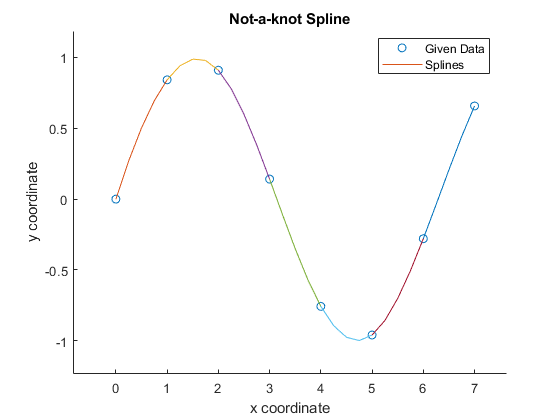
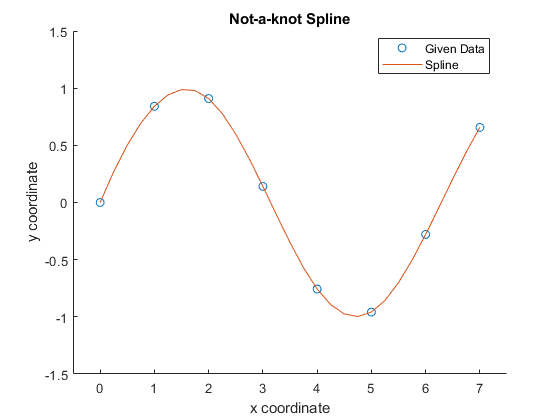
Misc: Update all HW7 questions except for Q1.b and Q1.c

diff --git a/HW7/HW7_Q2.m b/HW7/HW7_Q2.m
@@ -7,7 +7,7 @@ Y = [3 6 19 99 291 444];
 desired_x = 4;
 yint = [];
 
-for i = 2 : 4
+for i = 2 : length(X)
     yint = [yint Newtint(X(1:i), Y(1:i), desired_x)];
 end
 
@@ -21,14 +21,21 @@ x = 0 : 0.25 : X(length(X)) + 1;
 
 % order = points - 1, points >= 2
 % polynomials for order over 3 have the same result
-for i = 2 : 4
+for i = 2 : length(X)
     plot(x, Newtint(X(1:i), Y(1:i), x));
 end
 
-plot(desired_x, yint, '.', 'MarkerSize', 10, 'color', 'r');
+plot(desired_x, yint, 'x', 'MarkerSize', 10, 'color', 'r');
 
 % Config of figure
 title('Newton’s Interpolating Polynomial');
 xlabel('x coordinate')
 ylabel('y coordinate')
-legend('Given Data', 'Order 1', 'Order 2', 'Order 3', 'Desired Data', 'location', 'best');
+legend('Given Data',...
+       'Order 1',...
+       'Order 2',...
+       'Order 3',...
+       'Order 4',...
+       'Order 5',...
+       'Desired Data',...
+       'location', 'best');

diff --git a/HW7/HW7_Q3.m b/HW7/HW7_Q3.m
@@ -7,7 +7,7 @@ Y = [3 6 19 99 291 444];
 desired_x = 4;
 yint = [];
 
-for i = 2 : 4
+for i = 2 : length(X)
     yint = [yint Lagrange(X(1:i), Y(1:i), desired_x)];
 end
 
@@ -21,14 +21,21 @@ x = 0 : 0.25 : X(length(X)) + 1;
 
 % order = points - 1, points >= 2
 % polynomials for order over 3 have the same result
-for i = 2 : 4
+for i = 2 : length(X)
     plot(x, Lagrange(X(1:i), Y(1:i), x));
 end
 
-plot(desired_x, yint, '.', 'MarkerSize', 10, 'color', 'r');
+plot(desired_x, yint, 'x', 'MarkerSize', 10, 'color', 'r');
 
 % Config of figure
 title('Lagrange Interpolating Polynomial');
 xlabel('x coordinate')
 ylabel('y coordinate')
-legend('Given Data', 'Order 1', 'Order 2', 'Order 3', 'Desired Data', 'location', 'best');
+legend('Given Data',...
+       'Order 1',...
+       'Order 2',...
+       'Order 3',...
+       'Order 4',...
+       'Order 5',...
+       'Desired Data',...
+       'location', 'best');

diff --git a/HW7/Natural_cubic_spline.m b/HW7/Natural_cubic_spline.m
@@ -24,16 +24,16 @@ function s = Natural_cubic_spline(X, Y)
     d = (Y(2 : n) - Y(1 : n - 1))./h;
 
     % for natural spline, second derivatives are zero at endpoints
-    % A(1, 1) = 1;
-    % A(n, n) = 1;
+    A(1, 1) = 1;
+    A(n, n) = 1;
 
     % for not-a-knot spline, second derivatives are zero at endpoints
-    A(1, 1) = h(2);
-    A(1, 2) = - (h(1) + h(2));
-    A(1, 3) = h(1);
-    A(n, n - 2) = h(n - 1);
-    A(n, n - 1) = - (h(n - 2) + h(n - 1));
-    A(n, n) = h(1);
+    % A(1, 1) = h(2);
+    % A(1, 2) = - (h(1) + h(2));
+    % A(1, 3) = h(1);
+    % A(n, n - 2) = h(n - 1);
+    % A(n, n - 1) = - (h(n - 2) + h(n - 1));
+    % A(n, n) = h(1);
 
     % set up the equations for the second derivatives, m(i)
     for i = 2 : n - 1

diff --git a/HW7/HW7_Q4_b.m b/HW7/HW7_Q4_b.m
@@ -1,0 +1,28 @@
+clear;
+close all;
+format long;
+
+func = @(x) 1./(1 + 25 * x.^2);
+
+X = -1: 0.5 :1;
+Y = func(X);
+
+%-------------------- Plot the figure --------------------%
+hold on;
+
+% Plot data points
+plot(X, Y, 'o');
+
+x = -1 : 0.01 : 1;
+plot(x, func(x));
+plot(x, Lagrange(X, Y, x))
+
+% Config of figure
+title('Runge’s function');
+ylim([-0.6 1.2])
+xlabel('x coordinate')
+ylabel('y coordinate')
+legend('Given Data',...
+       'Runge’s function',...
+       'Estimated 4-Order Polynomial',...
+       'location', 'best');

diff --git a/HW7/HW7_Q4_d.m b/HW7/HW7_Q4_d.m
@@ -25,6 +25,7 @@ plot(x, Lagrange(X, Y, x))
 % Plot the cubic spline
 x_tmp = [];
 y_tmp = [];
+% for i = 1 : n - 1
 for i = 1 : n - 1
     x = X(i) : 0.01 : X(i + 1);
     y = @(x, i) s(i, 1) + s(i, 2) * (x - X(i)) + s(i, 3) * (x - X(i)).^ 2 + s(i, 4) * (x - X(i)).^ 3;
@@ -41,6 +42,6 @@ xlabel('x coordinate')
 ylabel('y coordinate')
 legend('Given Data',...
        'Runge’s function',...
-       'Lagrange(4-order)',...
+       'Interpolating polynomials',...
        'Cubic Spline',...
        'location', 'best');

diff --git a/HW7/HW7_Q4_a.m b/HW7/HW7_Q4_a.m
@@ -15,11 +15,9 @@ plot(X, Y, 'o');
 
 x = -1 : 0.01 : 1;
 plot(x, func(x));
-plot(x, Lagrange(X, Y, x))
-
 % Config of figure
 title('Runge’s function');
 ylim([-0.6 1.2])
 xlabel('x coordinate')
 ylabel('y coordinate')
-legend('Given Data', 'Runge’s function', 'Estimated 4-Order Polynomial', 'location', 'best');
+legend('Given Data', 'Runge’s function', 'location', 'best');

diff --git a/HW7/HW7_Q1_a.m b/HW7/HW7_Q1_a.m
@@ -71,6 +71,8 @@ plot(x_tmp, y_tmp);
 
 % Config of figure
 title('Not-a-knot Spline');
+xlim([-0.5 7.5])
+ylim([-1.5 1.5])
 xlabel('x coordinate')
 ylabel('y coordinate')
 legend('Given Data', 'Spline', 'location', 'best');
